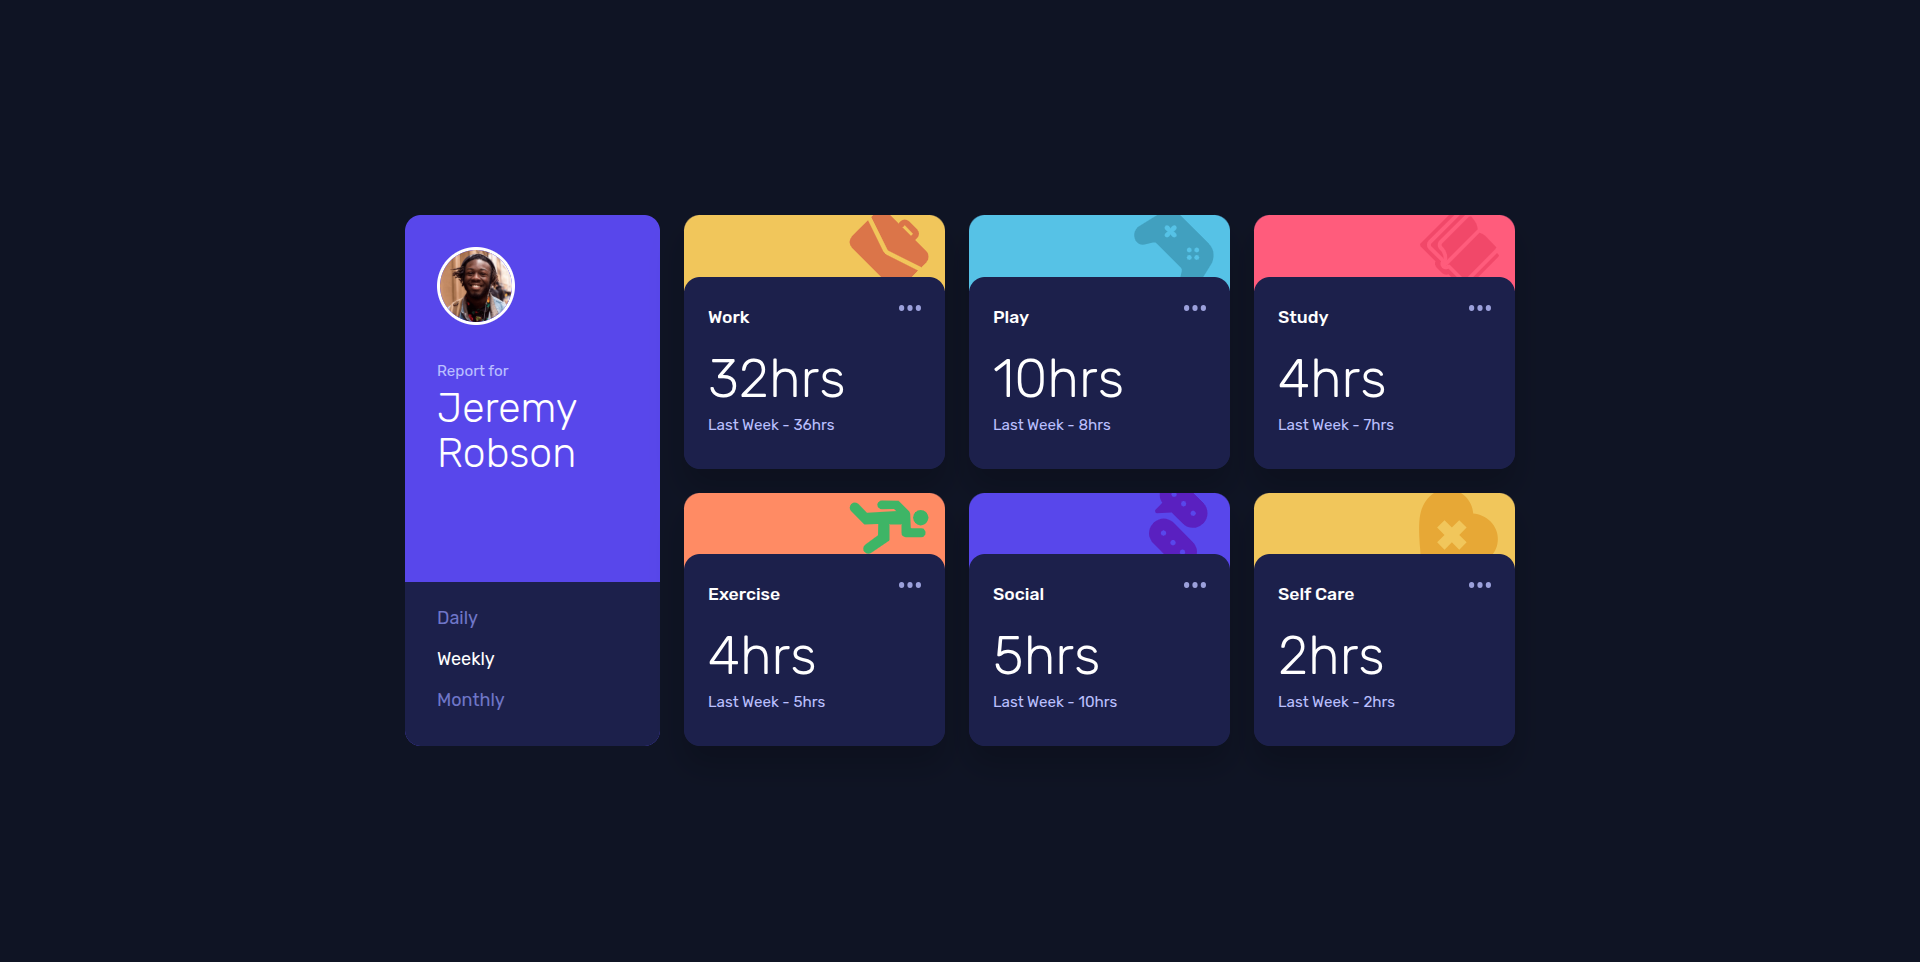
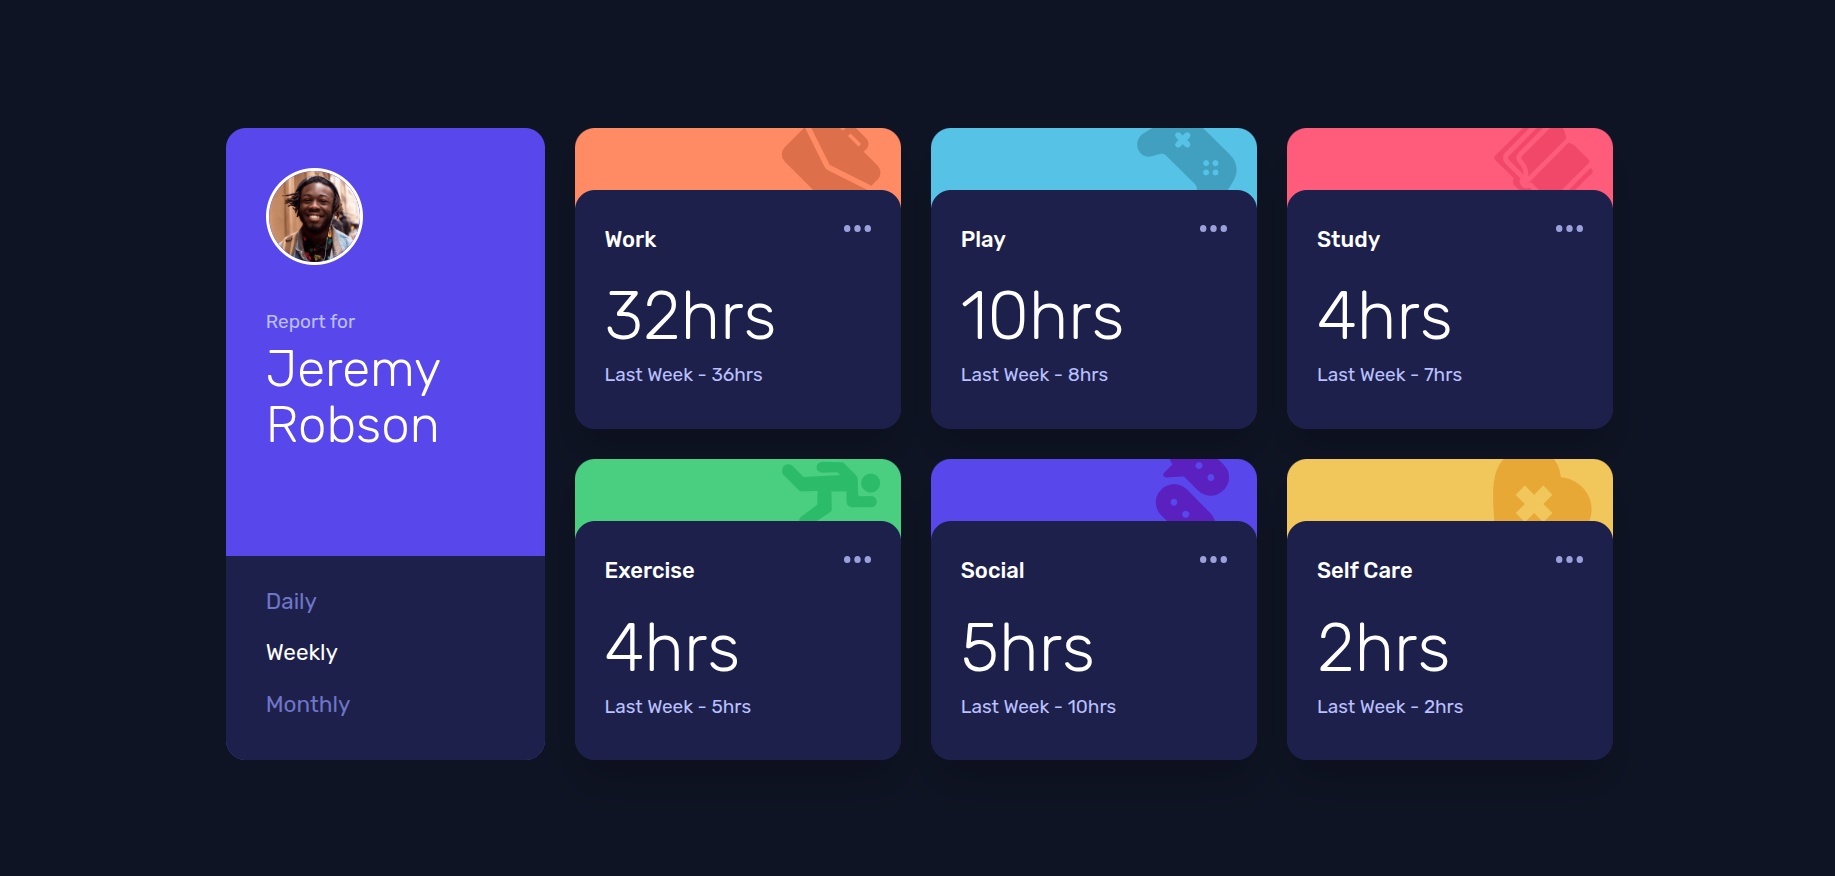
docs(time-tracking-dashboard): update preview image

diff --git a/time-tracking-dashboard/README.md b/time-tracking-dashboard/README.md
@@ -1,3 +1,5 @@
 # Time tracking dashboard
 
 ## Preview
+
+![alt text](assets/images/preview.png)
